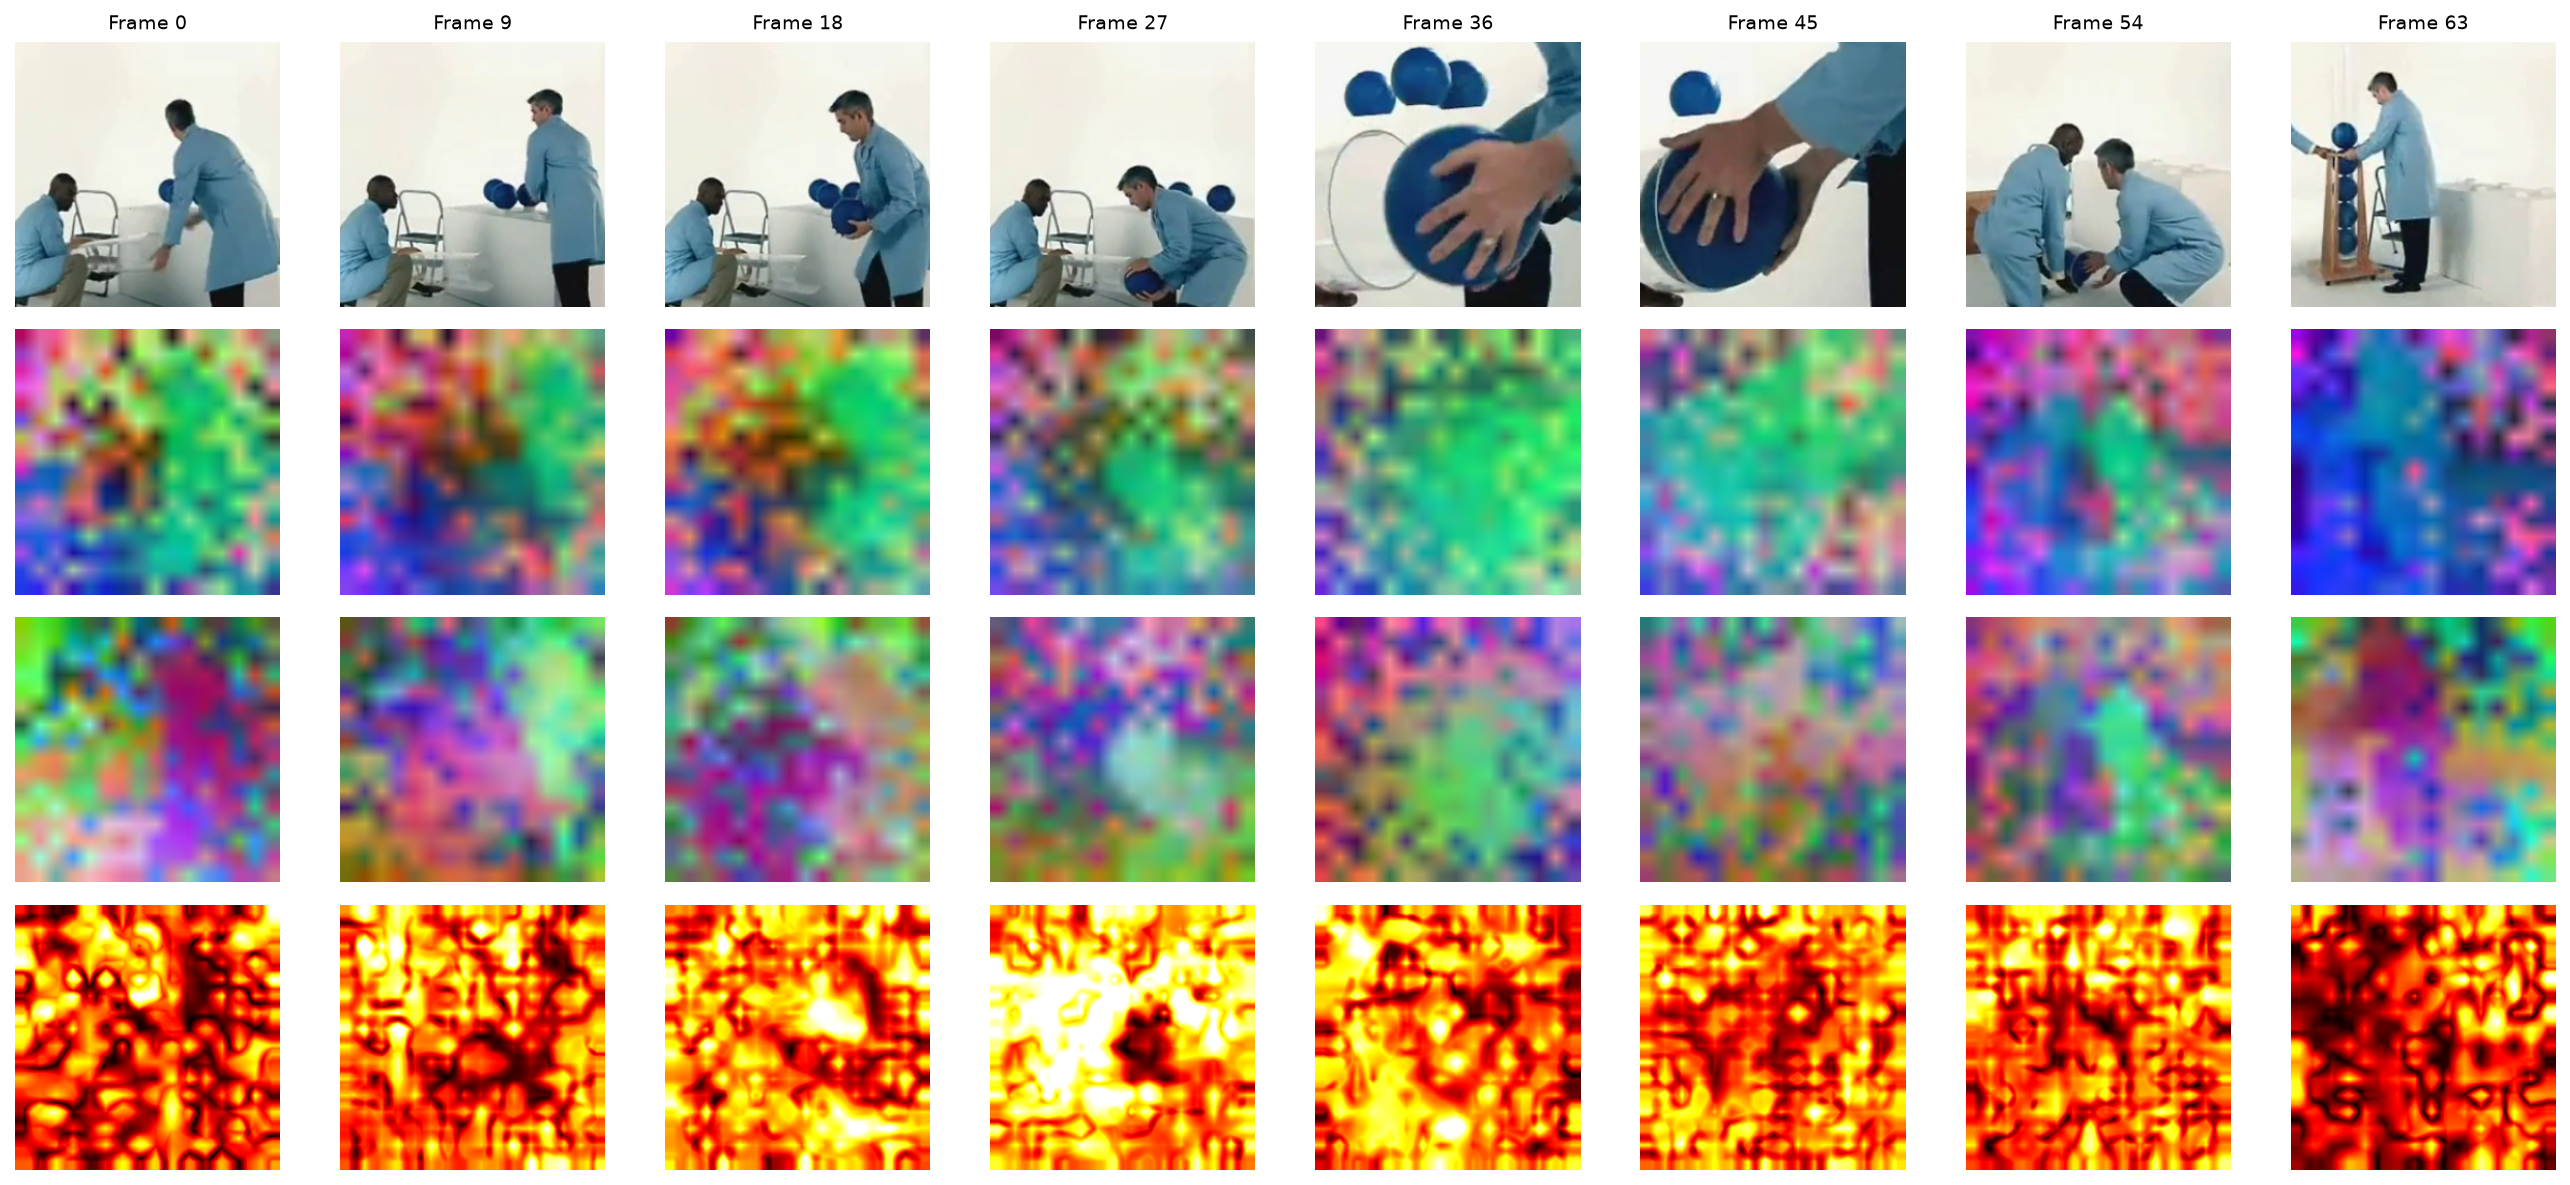
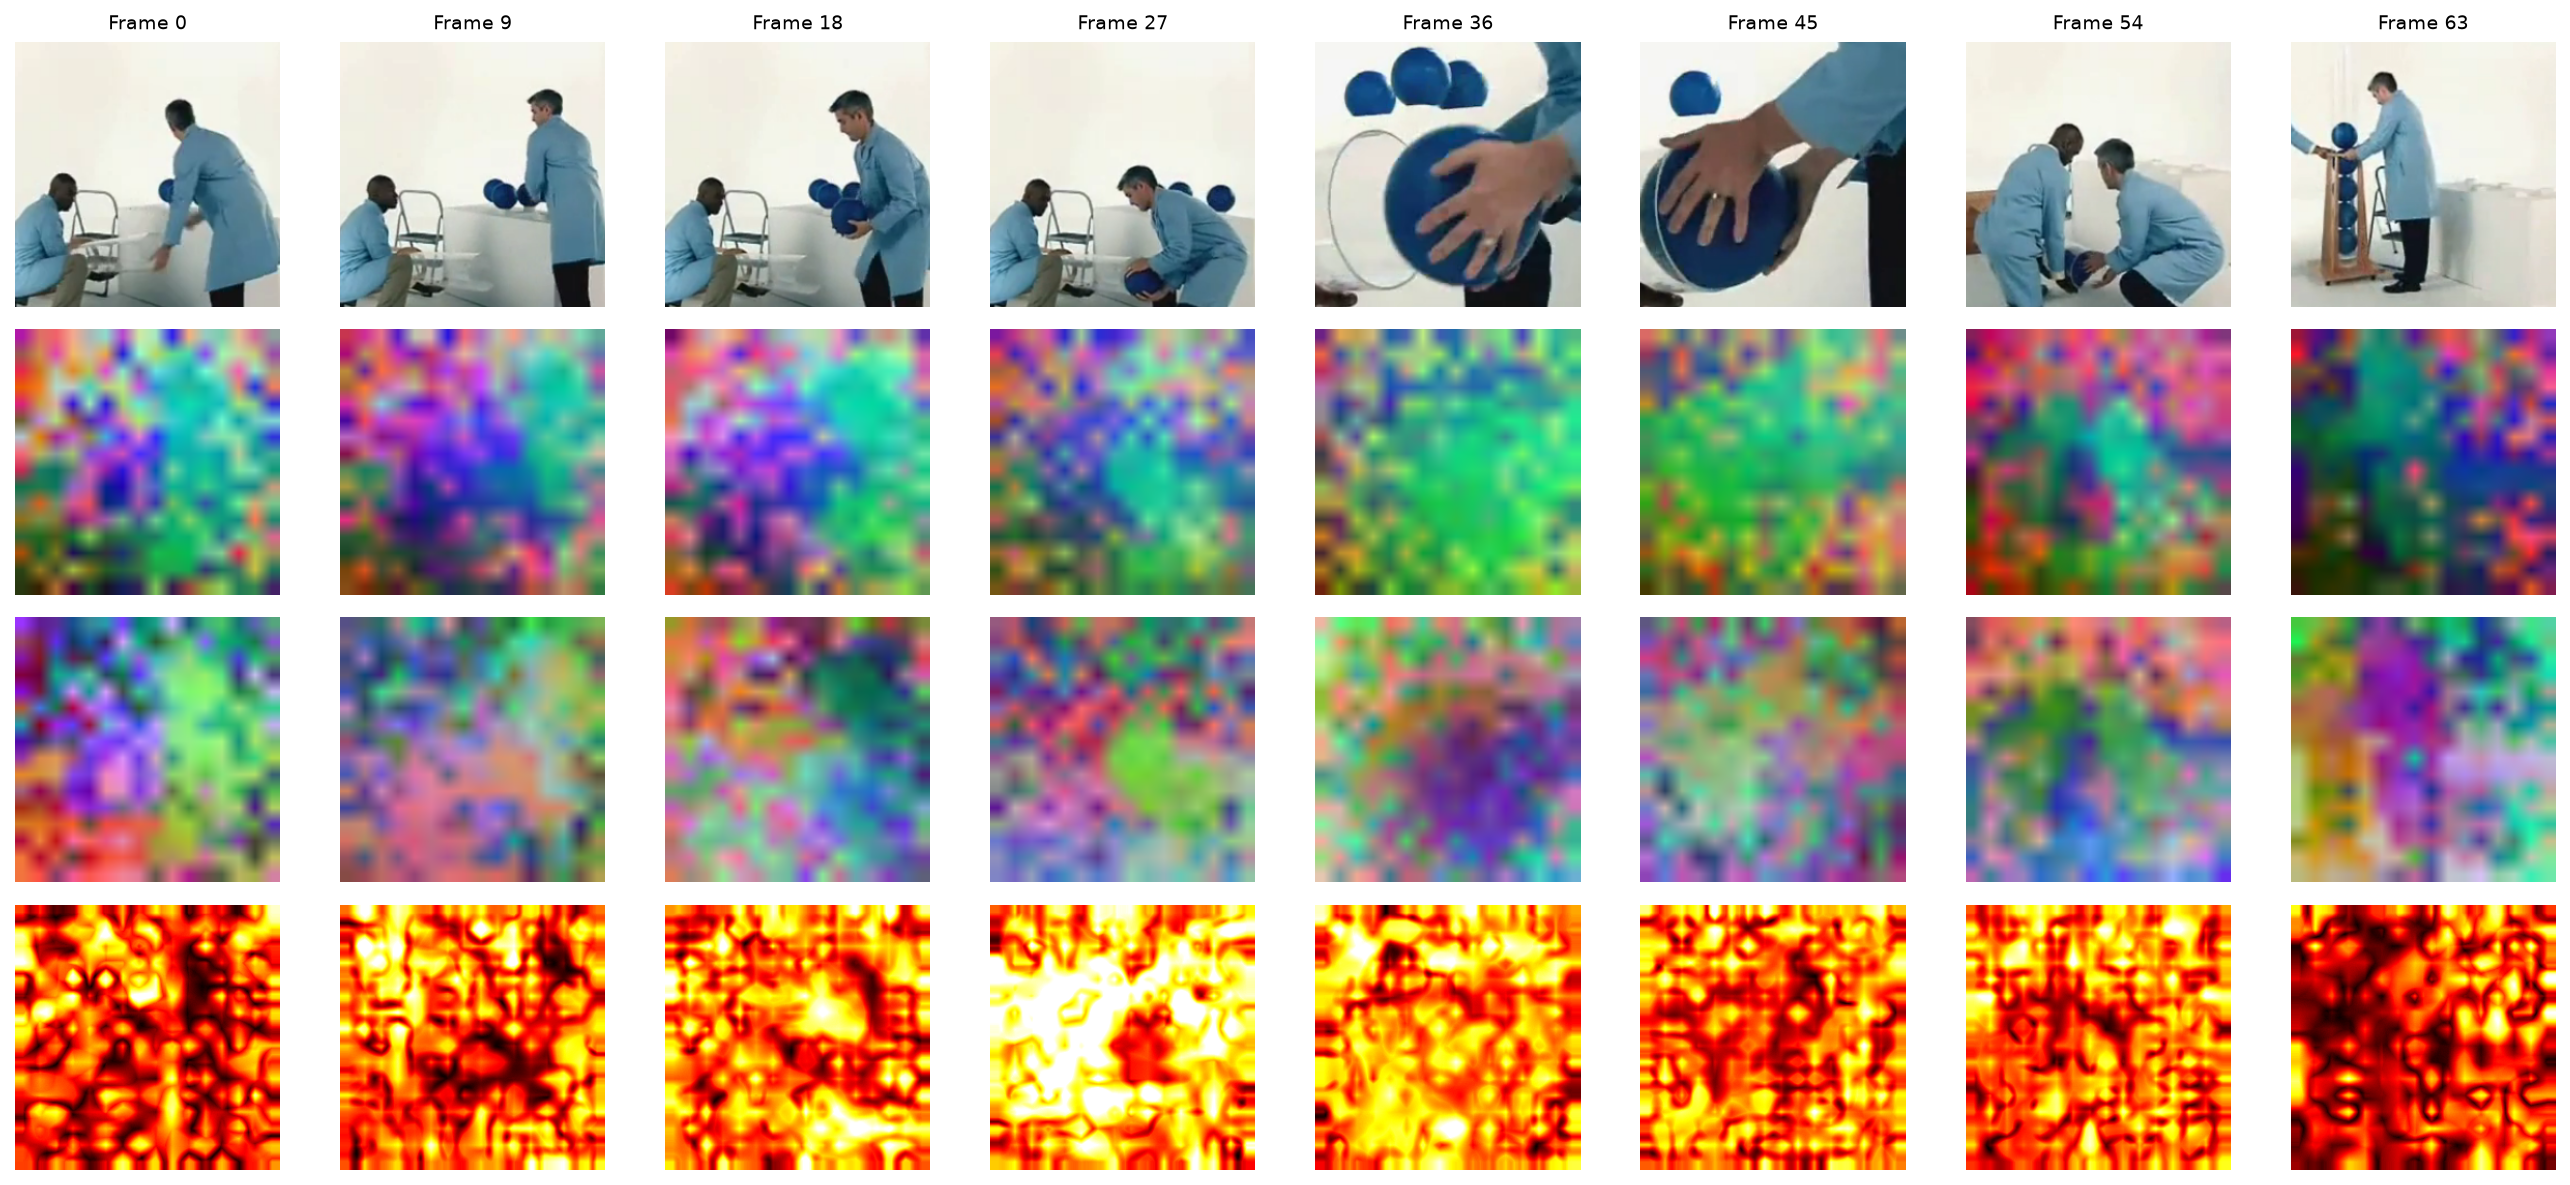
feat: add Method 3 feature trajectory plotting stability metric

diff --git a/option1/visualize_pca.py b/option1/visualize_pca.py
@@ -276,6 +276,69 @@ def save_keyframe_grid(original, pca_global, pca_per_frame, flicker_global, outp
     print(f"Saved keyframe grid image to: {output_path}")
 
 
+def save_trajectory_plot(pca_global, pca_per_frame, output_path, static_pt=(40, 40), moving_pt=(150, 128)):
+    """
+    Plots the R, G, B PCA trajectories over time for a static background point
+    and a moving foreground point to compare Global vs Per-frame stability.
+    """
+    T = pca_global.shape[0]
+    frames = np.arange(T)
+    
+    fig, axes = plt.subplots(2, 2, figsize=(12, 8))
+    
+    sy, sx = static_pt
+    my, mx = moving_pt
+    
+    # 1. Static Point - Global PCA
+    axes[0, 0].plot(frames, pca_global[:, sy, sx, 0], 'r-', label='Red (Comp 1)')
+    axes[0, 0].plot(frames, pca_global[:, sy, sx, 1], 'g-', label='Green (Comp 2)')
+    axes[0, 0].plot(frames, pca_global[:, sy, sx, 2], 'b-', label='Blue (Comp 3)')
+    axes[0, 0].set_title(f"Static Point ({sx}, {sy}) - Global PCA (Stable)")
+    axes[0, 0].set_ylabel("PCA Color Value (0-255)")
+    axes[0, 0].set_xlabel("Frame Index")
+    axes[0, 0].legend()
+    axes[0, 0].grid(True, alpha=0.3)
+    axes[0, 0].set_ylim(-10, 265)
+    
+    # 2. Static Point - Per-frame PCA
+    axes[0, 1].plot(frames, pca_per_frame[:, sy, sx, 0], 'r--', label='Red (Comp 1)')
+    axes[0, 1].plot(frames, pca_per_frame[:, sy, sx, 1], 'g--', label='Green (Comp 2)')
+    axes[0, 1].plot(frames, pca_per_frame[:, sy, sx, 2], 'b--', label='Blue (Comp 3)')
+    axes[0, 1].set_title(f"Static Point ({sx}, {sy}) - Per-frame PCA (Flicker)")
+    axes[0, 1].set_ylabel("PCA Color Value (0-255)")
+    axes[0, 1].set_xlabel("Frame Index")
+    axes[0, 1].legend()
+    axes[0, 1].grid(True, alpha=0.3)
+    axes[0, 1].set_ylim(-10, 265)
+    
+    # 3. Moving Point - Global PCA
+    axes[1, 0].plot(frames, pca_global[:, my, mx, 0], 'r-', label='Red (Comp 1)')
+    axes[1, 0].plot(frames, pca_global[:, my, mx, 1], 'g-', label='Green (Comp 2)')
+    axes[1, 0].plot(frames, pca_global[:, my, mx, 2], 'b-', label='Blue (Comp 3)')
+    axes[1, 0].set_title(f"Moving Point ({mx}, {my}) - Global PCA (Smooth)")
+    axes[1, 0].set_ylabel("PCA Color Value (0-255)")
+    axes[1, 0].set_xlabel("Frame Index")
+    axes[1, 0].legend()
+    axes[1, 0].grid(True, alpha=0.3)
+    axes[1, 0].set_ylim(-10, 265)
+    
+    # 4. Moving Point - Per-frame PCA
+    axes[1, 1].plot(frames, pca_per_frame[:, my, mx, 0], 'r--', label='Red (Comp 1)')
+    axes[1, 1].plot(frames, pca_per_frame[:, my, mx, 1], 'g--', label='Green (Comp 2)')
+    axes[1, 1].plot(frames, pca_per_frame[:, my, mx, 2], 'b--', label='Blue (Comp 3)')
+    axes[1, 1].set_title(f"Moving Point ({mx}, {my}) - Per-frame PCA (Noisy)")
+    axes[1, 1].set_ylabel("PCA Color Value (0-255)")
+    axes[1, 1].set_xlabel("Frame Index")
+    axes[1, 1].legend()
+    axes[1, 1].grid(True, alpha=0.3)
+    axes[1, 1].set_ylim(-10, 265)
+    
+    plt.tight_layout()
+    plt.savefig(output_path, dpi=150, bbox_inches='tight')
+    plt.close()
+    print(f"Saved trajectory plot to: {output_path}")
+
+
 def main():
     parser = argparse.ArgumentParser(description="V-JEPA 2.1 Dense Feature PCA Visualization")
     parser.add_argument("--video_path", type=str, default=SAMPLE_VIDEO_PATH, help="Path to input video")
@@ -400,6 +463,13 @@ def main():
         flicker_global,
         os.path.join(args.output_dir, "keyframe_grid.png"),
         num_keyframes=8
+    )
+
+    # 15. Save static Trajectory Plot (Method 3)
+    save_trajectory_plot(
+        pca_frames_global,
+        pca_frames_per_frame,
+        os.path.join(args.output_dir, "pca_trajectory_plot.png")
     )
     print("\nSUCCESS! PCA stability visualization files generated in:", args.output_dir)
 